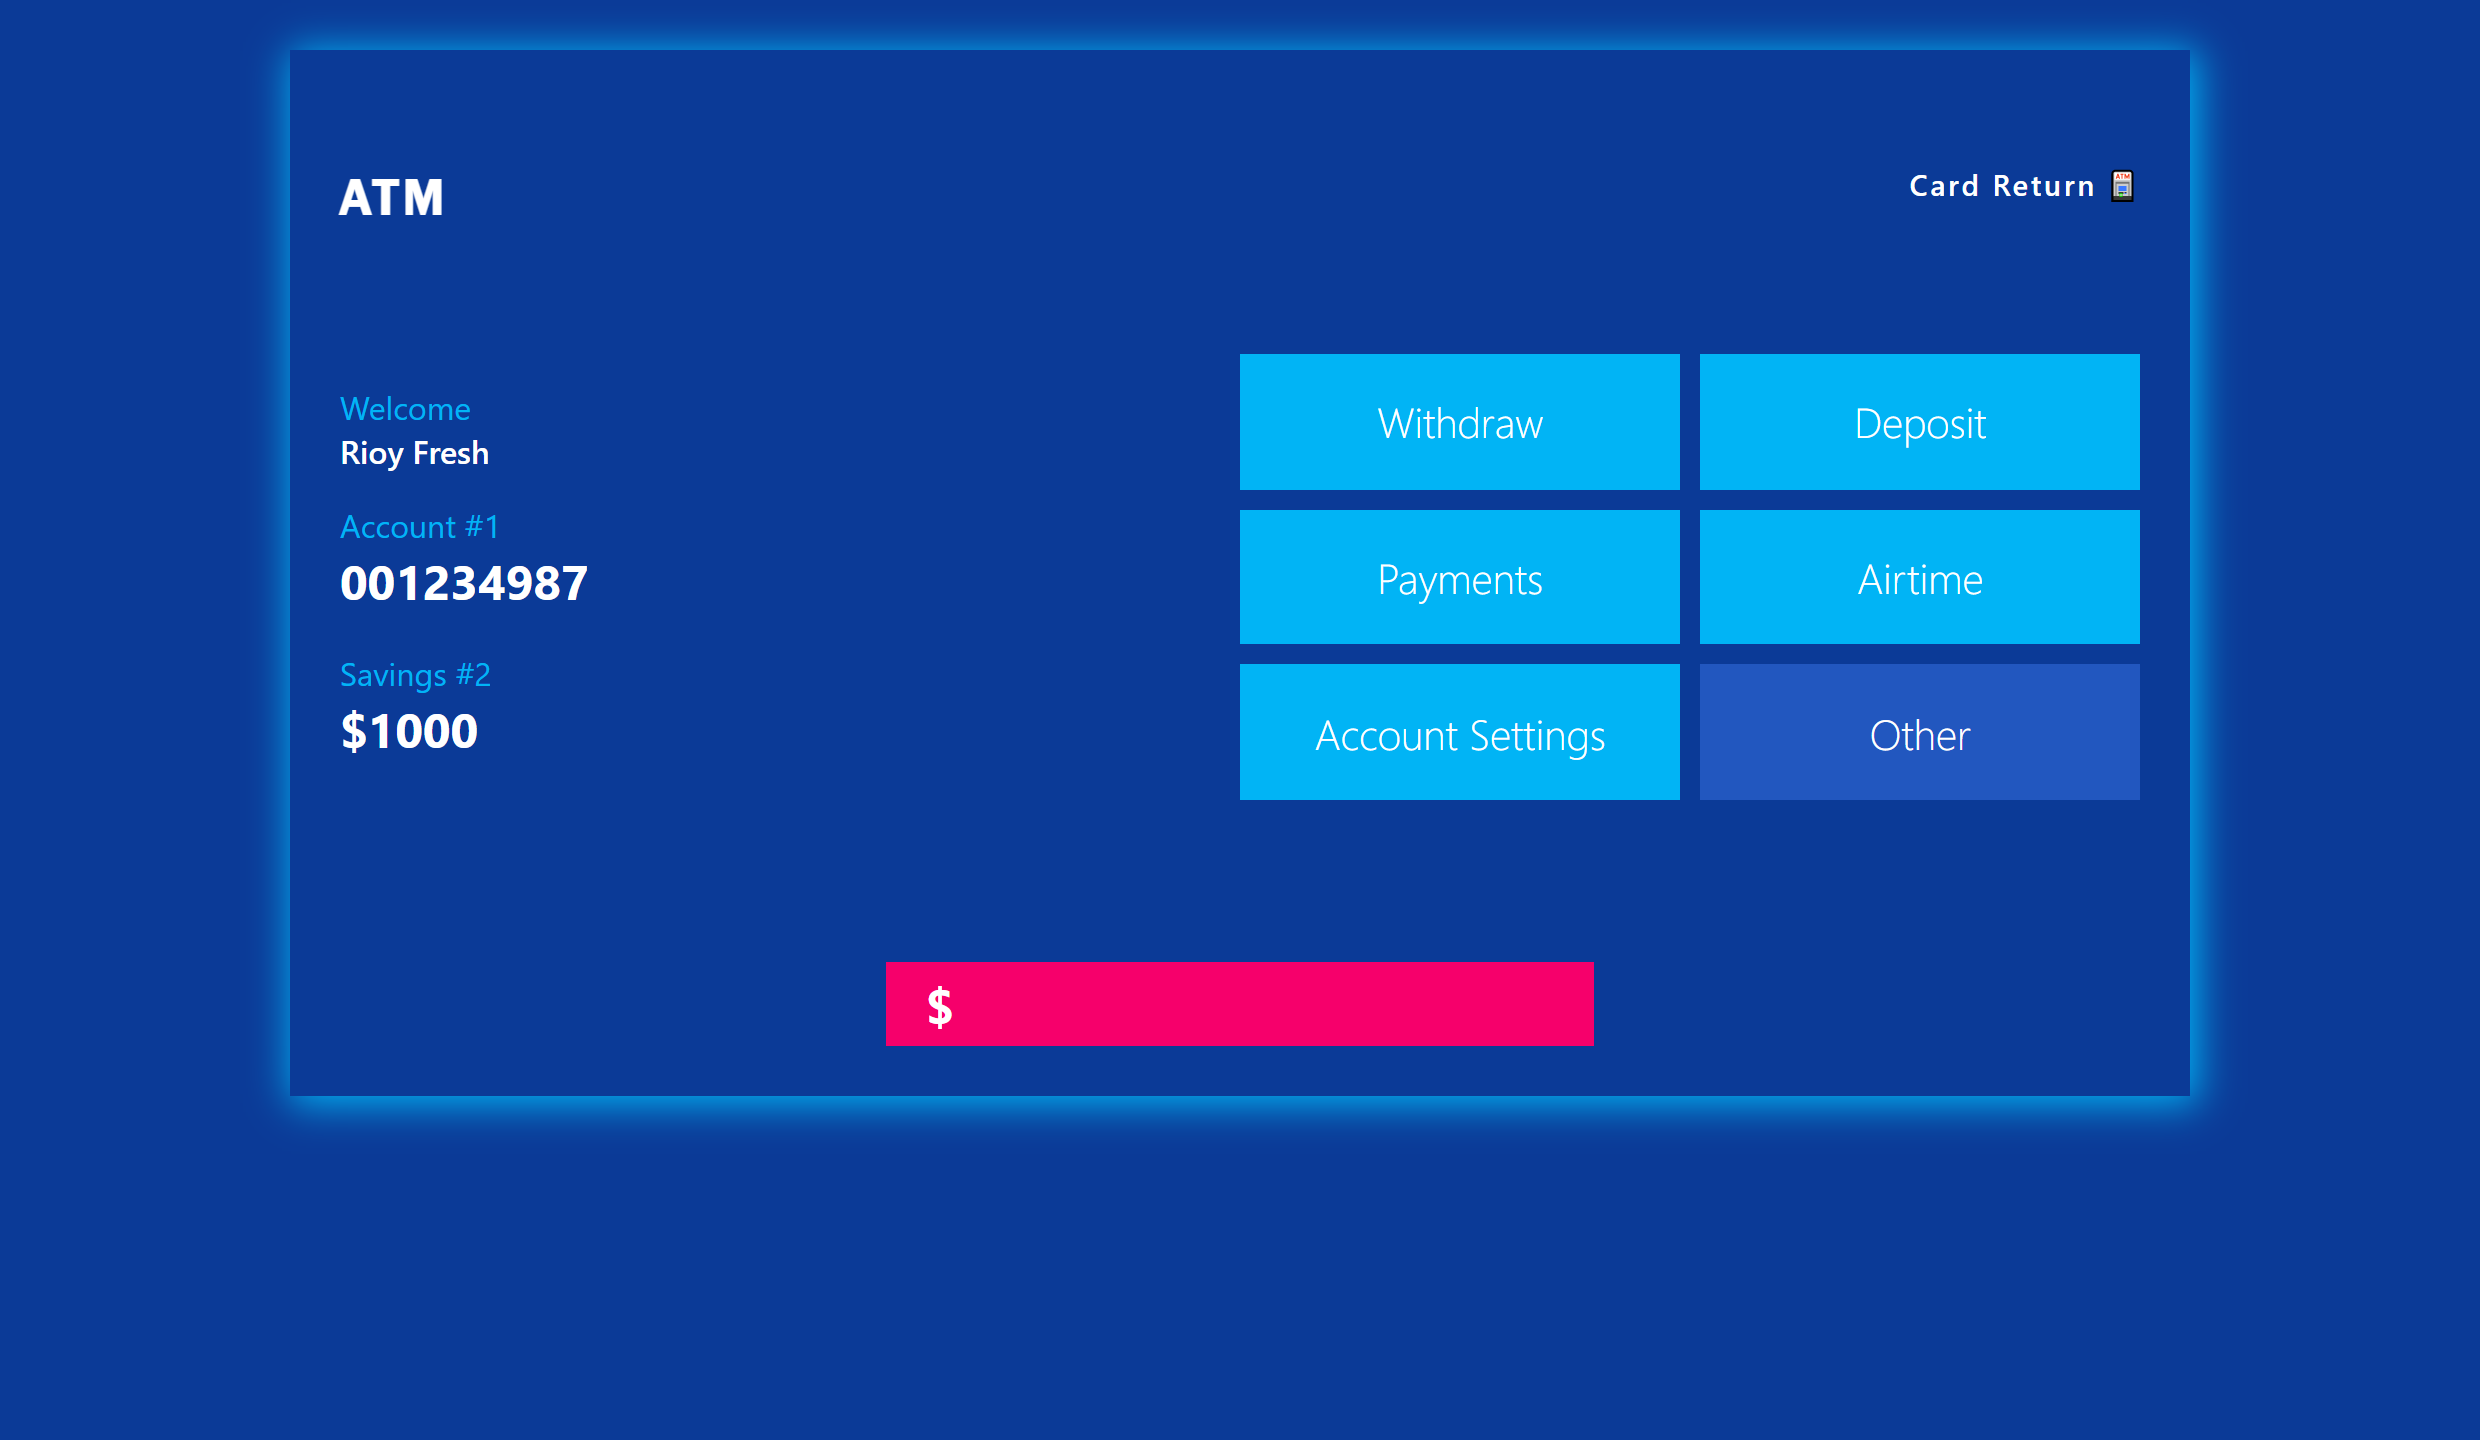
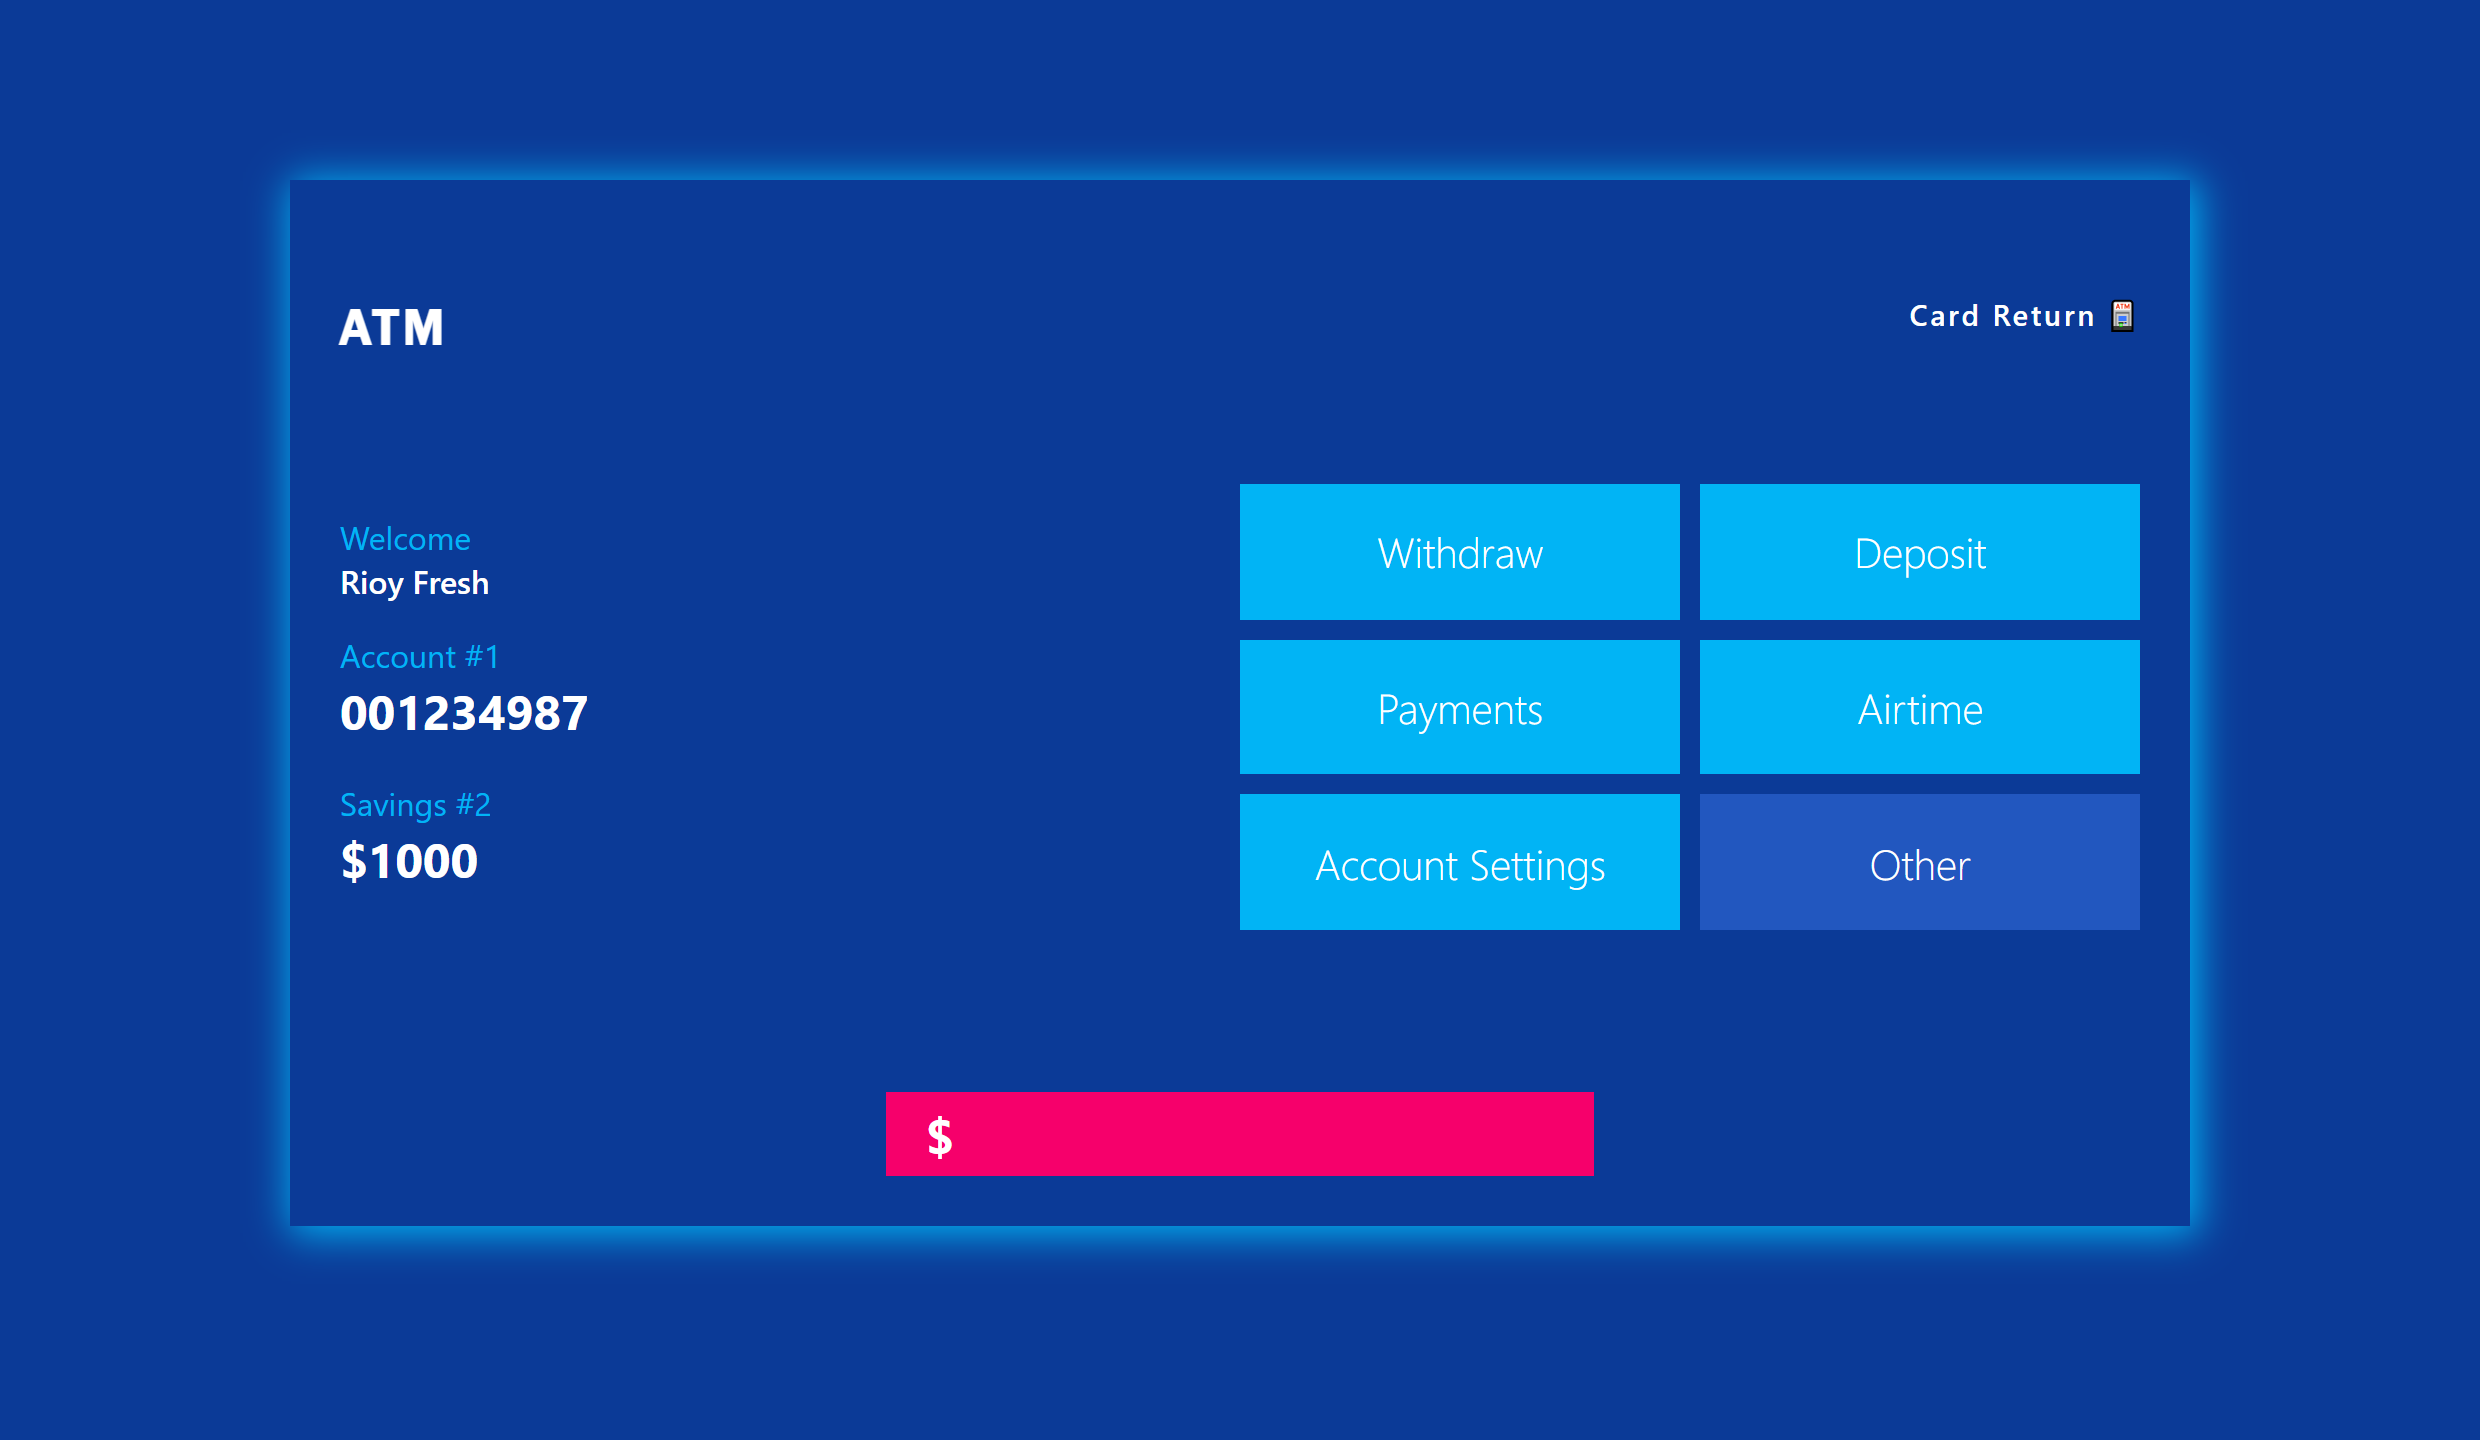
added bg image to id atm

diff --git a/style.css b/style.css
@@ -143,3 +143,9 @@ body{
     background-repeat: no-repeat;
     background-size: cover; 
 }
+#atm{
+    background-image: url(/img/atm.png);
+    background-position: center;
+    background-repeat: no-repeat;
+    background-size: cover; 
+}
